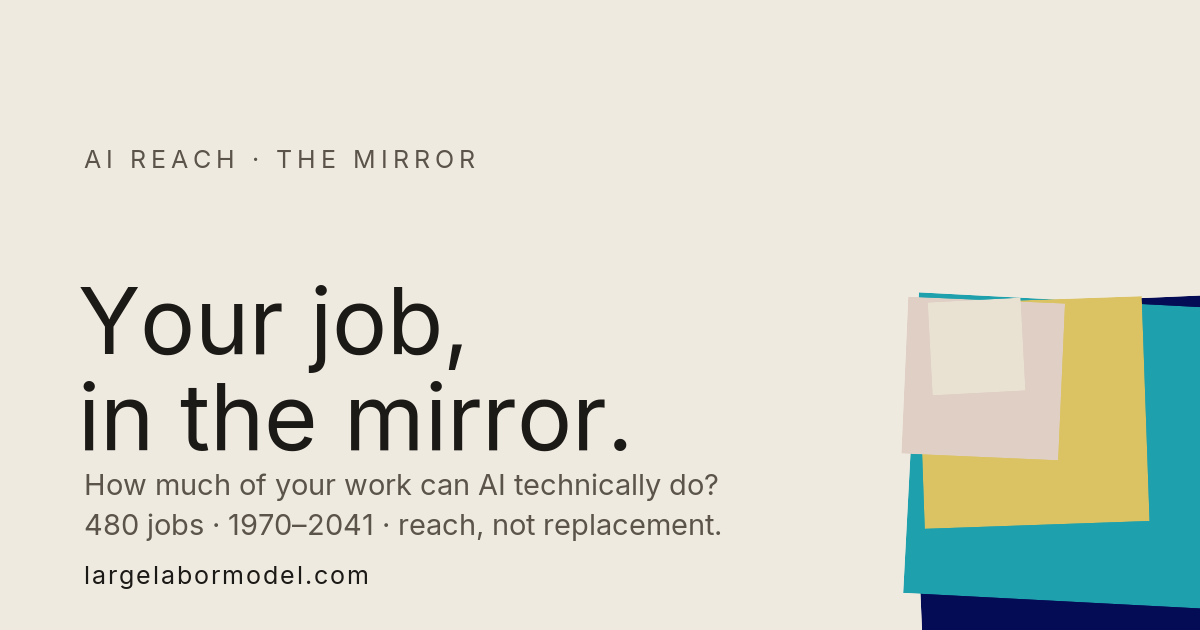
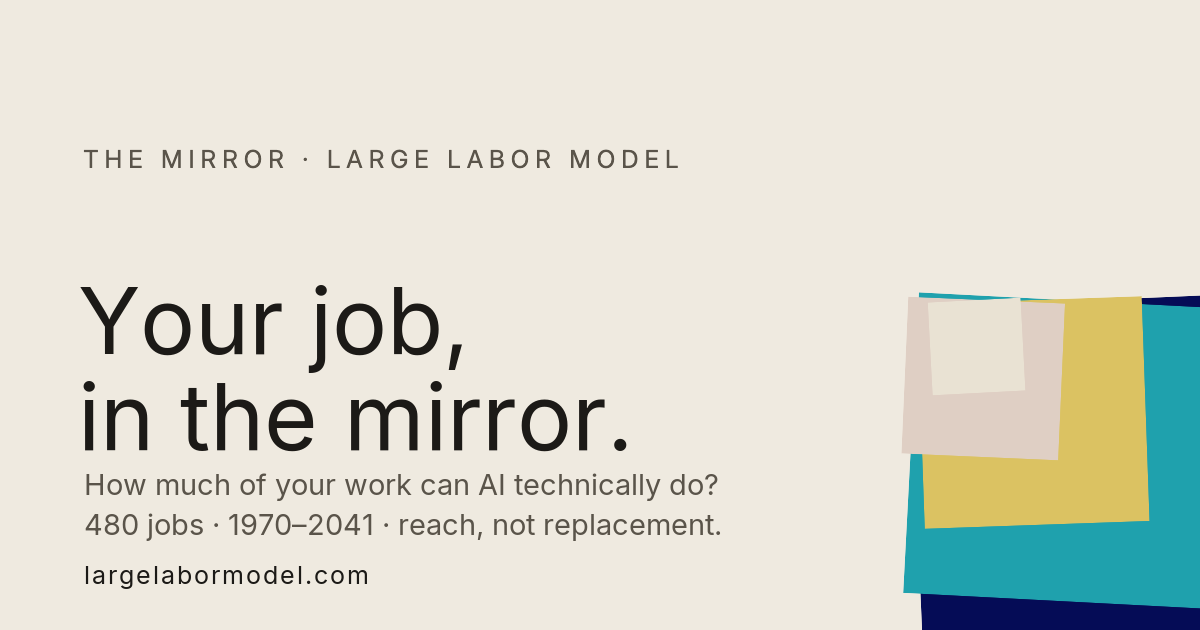
Independent review fixes: share images, 2025 provenance, bad-link focus, honest check
From the independent review of 0b81390 (GO with fixes), each reproduced first;
owner decided the open points.

- og-image.png was a capture of a pre-v5 model (57% avg, 3.4B, Land & Sea 48%)
  and had been every link preview of / and /about since v5. Replaced with a
  render of this candidate at 2026 (34%, 3.6B); alt text year 2041 -> 2026.
- mirror/og-mirror.png still said "AI REACH · THE MIRROR"; now "THE MIRROR ·
  LARGE LABOR MODEL", as on the per-job cards. Only the kicker strip changed
  (pixel diff bbox 83,149-678,169).
- Both image URLs versioned (?v=20260919) in the pages and the /mirror shim so
  cached previews refresh.
- "The 2025 shares ... come from the post-2011 regime" was false: 2025 rests on
  19 reporting countries with the agriculture tie on, as in 1991-2010.
  Replaced in methodology-full.html, v5_methodology.md, v5_changelog.md.
- Unresolved ?job= on desktop: cursor goes into the open search on
  mouse-and-keyboard devices, so arrow + enter picks a job. Behaviour otherwise
  unchanged; mobile untouched. The reviewer's "unselected" state was declined.
- check_release.py: the Mirror check said "Nurse only when no ?job= is given"
  while requiring the unresolved fallback. Relabelled; the page's own miss
  flag is now executed for eight cases. Three mutations fail it.

Correction to d12142f's message: against the pooled dry run the decade-point
drawing is worst 3.1 pts vs 6.6 (mean 0.75 vs 0.85), not 2.4 vs 6.3.
[…]

Changed region(s): [[0.0617, 0.2413, 0.5858, 0.2714]]

diff --git a/methodology-full.html b/methodology-full.html
@@ -574,7 +574,7 @@ pending = replaceability_2026 × (1 − already_absorbed(era))
     <li><strong>Editorial overrides pending.</strong> Two evidence-backed concerns (ISCO 5245 Service Station Staff; REGULATORY-barrier occupations with r41 ≥ 95) are documented but not applied to v5.0. v5.1 / post-launch.</li>
     <li><strong>Historical reconstructions are coarse.</strong> 1800–1869 relies on Bairoch/Maddison macro aggregates; 1870–1990 on GGDC 10-sector. Only 1991+ is occupation-level ILOSTAT. Pre-1991 territory totals are honest but not precise.</li>
     <li><strong>Low/high scenario bands are structural, not editorially reviewed.</strong> See Section 7 caveat.</li>
-    <li><strong>The workforce-share series has breaks.</strong> The annual 1991–2025 shares are built occupation-up from ILOSTAT modelled estimates and carry classification breaks — the largest at 2010→2011, where Land &amp; Sea drops 7.0 points and Maintaining &amp; Fixing gains 4.8 in a single year — followed by roughly ±2-point year-to-year noise. The 1950 cross-section, from a source with thinner country coverage, puts Land &amp; Sea at 25% between 54% (1940) and 48% (1960). Both are artefacts of data assembly, not events, and are queued for v6. The 2025 shares that weight the headline figures come from the post-2011 regime. <em>Added 2026-09-19: until that date the homepage held every territory at its 1990 share, which hid these breaks.</em></li>
+    <li><strong>The workforce-share series has breaks.</strong> The annual 1991–2025 shares are built occupation-up from ILOSTAT modelled estimates and carry classification breaks — the largest at 2010→2011, where Land &amp; Sea drops 7.0 points and Maintaining &amp; Fixing gains 4.8 in a single year — followed by roughly ±2-point year-to-year noise. The 1950 cross-section, from a source with thinner country coverage, puts Land &amp; Sea at 25% between 54% (1940) and 48% (1960). Both are artefacts of data assembly, not events, and are queued for v6. The 2025 shares that weight the headline figures rest on 19 reporting countries, with Land &amp; Sea tied to the ILO's world agriculture total, as in 1991–2010. <em>Added 2026-09-19: until that date the homepage held every territory at its 1990 share, which hid these breaks.</em></li>
     <li><strong>Historical backfill uses current task decompositions and current within-territory employment weights.</strong> Phase 12 produces honest historical capability values, then applies them against today's occupation task lists weighted by today's in-territory employment shares. This gives "what share of today's labor would have been technically replaceable at that year's capability" — not "what share of 1985's actual labor force was replaceable by 1985 technology." Reconstructing historical occupation composition at the 480-occupation granularity is deferred.</li>
     <li><strong>Pre-1970 has no territory replaceability series.</strong> Capability evidence pre-1970 is too thin to support per-territory numbers with the same discipline as 1970+. Pre-1970 shows labor composition via <code>historical_occupations</code> macro aggregates (land_sea / macro_industry / macro_services) but no territory-level replaceability scores.</li>
   </ol>

diff --git a/mirror/desktop.html b/mirror/desktop.html
@@ -11,14 +11,14 @@
 <meta property="og:title" content="The Mirror · Large Labor Model">
 <meta property="og:description" content="How much of your job can AI technically do? Look up any of 480 occupations — replaceability, not replacement.">
 <meta property="og:url" content="https://largelabormodel.com/mirror">
-<meta property="og:image" content="https://largelabormodel.com/mirror/og-mirror.png">
+<meta property="og:image" content="https://largelabormodel.com/mirror/og-mirror.png?v=20260919">
 <meta property="og:image:width" content="1200">
 <meta property="og:image:height" content="630">
 <meta property="og:image:alt" content="The Mirror — how much of your job AI can technically do, across 480 jobs from 1970 to 2041.">
 <meta name="twitter:card" content="summary_large_image">
 <meta name="twitter:title" content="The Mirror · Large Labor Model">
 <meta name="twitter:description" content="How much of your job can AI technically do? 480 jobs · replaceability, not replacement.">
-<meta name="twitter:image" content="https://largelabormodel.com/mirror/og-mirror.png">
+<meta name="twitter:image" content="https://largelabormodel.com/mirror/og-mirror.png?v=20260919">
 <meta name="twitter:image:alt" content="The Mirror — technical replaceability across 480 jobs.">
 <meta name="viewport" content="width=device-width, initial-scale=1" />
 <style>
@@ -874,7 +874,7 @@ let toastT;
 function showToast(m){toast.textContent=m;toast.classList.add('on');clearTimeout(toastT);toastT=setTimeout(()=>toast.classList.remove('on'),2400);}
 attachTypeahead(document.getElementById('jobEntry'),o=>{setFocal(o.isco,true);document.getElementById('jobEntry').value='';document.getElementById('jobEntry').blur();});
 /* a ?job= value we could not place: show it in the search with its suggestions + the request row, rather than a silent Nurse */
-if(_jobMiss){const je=document.getElementById('jobEntry');if(je){je.value=_want.trim().slice(0,80);je.dispatchEvent(new Event('input',{bubbles:true}));}}
+if(_jobMiss){const je=document.getElementById('jobEntry');if(je){je.value=_want.trim().slice(0,80);je.dispatchEvent(new Event('input',{bubbles:true}));if(matchMedia('(hover:hover) and (pointer:fine)').matches)je.focus({preventScroll:true});}}
 /* ===== SHARE · generated PNG card (parity with mobile) ===== */
 const SITE='https://largelabormodel.com';
 function shareURL(){return SITE+'/mirror?job='+FOCAL_ISCO;}   // deep-link back into The Mirror, this job

diff --git a/index.html b/index.html
@@ -13,17 +13,17 @@
 <meta property="og:title" content="Large Labor Model — When Will AI Reach Your Job?">
 <meta property="og:description" content="A visual model of when AI and robotics will reach every job on Earth. 3.6 billion workers across 13 territories of work, from 1800 to 2041.">
 <meta property="og:url" content="https://largelabormodel.com">
-<meta property="og:image" content="https://largelabormodel.com/og-image.png">
+<meta property="og:image" content="https://largelabormodel.com/og-image.png?v=20260919">
 <meta property="og:image:width" content="1200">
 <meta property="og:image:height" content="630">
-<meta property="og:image:alt" content="Large Labor Model map at 2041 — 13 colored territories of work with replaceability percentages and worker counts.">
+<meta property="og:image:alt" content="Large Labor Model map at 2026 — 13 colored territories of work with replaceability percentages and worker counts.">
 
 <!-- Twitter -->
 <meta name="twitter:card" content="summary_large_image">
 <meta name="twitter:title" content="Large Labor Model — When Will AI Reach Your Job?">
 <meta name="twitter:description" content="A visual model of when AI and robotics will reach every job on Earth. 3.6 billion workers across 13 territories of work, from 1800 to 2041.">
-<meta name="twitter:image" content="https://largelabormodel.com/og-image.png">
-<meta name="twitter:image:alt" content="Large Labor Model map at 2041 — 13 colored territories of work with replaceability percentages and worker counts.">
+<meta name="twitter:image" content="https://largelabormodel.com/og-image.png?v=20260919">
+<meta name="twitter:image:alt" content="Large Labor Model map at 2026 — 13 colored territories of work with replaceability percentages and worker counts.">
 <style>
 @font-face {
   font-family: 'Inter';

diff --git a/methodology.html b/methodology.html
@@ -13,17 +13,17 @@
 <meta property="og:title" content="About — Large Labor Model">
 <meta property="og:description" content="How the Large Labor Model measures AI replaceability across 3.6 billion workers — data sources, methodology, and editorial principles.">
 <meta property="og:url" content="https://largelabormodel.com/about">
-<meta property="og:image" content="https://largelabormodel.com/og-image.png">
+<meta property="og:image" content="https://largelabormodel.com/og-image.png?v=20260919">
 <meta property="og:image:width" content="1200">
 <meta property="og:image:height" content="630">
-<meta property="og:image:alt" content="Large Labor Model map at 2041 — 13 colored territories of work with replaceability percentages and worker counts.">
+<meta property="og:image:alt" content="Large Labor Model map at 2026 — 13 colored territories of work with replaceability percentages and worker counts.">
 
 <!-- Twitter -->
 <meta name="twitter:card" content="summary_large_image">
 <meta name="twitter:title" content="About — Large Labor Model">
 <meta name="twitter:description" content="How the Large Labor Model measures AI replaceability across 3.6 billion workers — data sources, methodology, and editorial principles.">
-<meta name="twitter:image" content="https://largelabormodel.com/og-image.png">
-<meta name="twitter:image:alt" content="Large Labor Model map at 2041 — 13 colored territories of work with replaceability percentages and worker counts.">
+<meta name="twitter:image" content="https://largelabormodel.com/og-image.png?v=20260919">
+<meta name="twitter:image:alt" content="Large Labor Model map at 2026 — 13 colored territories of work with replaceability percentages and worker counts.">
 <style>
 @font-face {
   font-family: 'Inter';

diff --git a/mirror/mobile.html b/mirror/mobile.html
@@ -11,14 +11,14 @@
 <meta property="og:title" content="The Mirror · Large Labor Model">
 <meta property="og:description" content="How much of your job can AI technically do? Look up any of 480 occupations — replaceability, not replacement.">
 <meta property="og:url" content="https://largelabormodel.com/mirror">
-<meta property="og:image" content="https://largelabormodel.com/mirror/og-mirror.png">
+<meta property="og:image" content="https://largelabormodel.com/mirror/og-mirror.png?v=20260919">
 <meta property="og:image:width" content="1200">
 <meta property="og:image:height" content="630">
 <meta property="og:image:alt" content="The Mirror — how much of your job AI can technically do, across 480 jobs from 1970 to 2041.">
 <meta name="twitter:card" content="summary_large_image">
 <meta name="twitter:title" content="The Mirror · Large Labor Model">
 <meta name="twitter:description" content="How much of your job can AI technically do? 480 jobs · replaceability, not replacement.">
-<meta name="twitter:image" content="https://largelabormodel.com/mirror/og-mirror.png">
+<meta name="twitter:image" content="https://largelabormodel.com/mirror/og-mirror.png?v=20260919">
 <meta name="twitter:image:alt" content="The Mirror — technical replaceability across 480 jobs.">
 <meta name="viewport" content="width=device-width, initial-scale=1, viewport-fit=cover" />
 <meta name="theme-color" content="#efeae0" />

diff --git a/api/mirror-og.js b/api/mirror-og.js
@@ -17,7 +17,7 @@ const { URL } = require('url');
 const manifest = require('../mirror/og/manifest.json');
 
 const SITE = 'https://largelabormodel.com';
-const GENERIC_OG_IMAGE = `${SITE}/mirror/og-mirror.png`;
+const GENERIC_OG_IMAGE = `${SITE}/mirror/og-mirror.png?v=20260919`;
 const GENERIC_OG_IMAGE_ALT = 'The Mirror — how much of your job AI can technically do, across 480 jobs from 1970 to 2041.';
 const SITE_DESCRIPTION = 'How much of your job can AI technically do? Look up any of 480 occupations — replaceability, not replacement.';
 

diff --git a/scripts/check_release.py b/scripts/check_release.py
@@ -301,8 +301,11 @@ node = shutil.which("node")
 for rel in ["mirror/desktop.html", "mirror/mobile.html"]:
     h = text(rel)
     fn = re.search(r"function resolveJobParam\(v\)\{.*?\n\}", h, re.S)
-    check(f"{rel}: resolver present, Nurse only when no ?job= is given", bool(fn) and "let FOCAL_ISCO=_resolved||'2221'" in h and "if(_jobMiss){" in h and "?_want:'2221'" not in h)
-    if not (fn and node):
+    miss = re.search(r"const _resolved=resolveJobParam\(_want\), _jobMiss=([^;]+);", h)
+    check(f"{rel}: resolver present; Nurse is the default focal job; an unresolved ?job= opens the search holding the typed text",
+          bool(fn) and bool(miss) and "let FOCAL_ISCO=_resolved||'2221'" in h and "?_want:'2221'" not in h
+          and "if(_jobMiss){" in h and "je.value=_want.trim().slice(0,80)" in h and "je.dispatchEvent(new Event('input'" in h)
+    if not (fn and miss and node):
         if not node: skipped.append(f"{rel} resolver execution (node not found)")
         continue
     nm = collections.Counter(fold(o["name"]) for o in bundle["occupations"])
@@ -314,13 +317,17 @@ for rel in ["mirror/desktop.html", "mirror/mobile.html"]:
     cases = {"2221": "2221", "nurse": "2221", "NURSE": "2221", "xdata_sci": "XDATA_SCI", uniq["name"]: uniq["isco"], amb: None, "zzzz-not-a-job": None, "": None}
     js = ("const DATA=JSON.parse(require('fs').readFileSync(process.argv[1],'utf8').replace(/^[^=]*=/,'').trim().replace(/;$/,''));\n"
           + fn.group(0) + "\nconst C=" + json.dumps(cases) + ";const bad=Object.entries(C).filter(([k,v])=>resolveJobParam(k)!==v).map(([k,v])=>k+'→'+resolveJobParam(k)+' (want '+v+')');"
+          # the page's own miss flag, executed: only a non-blank value that does not resolve counts as a miss
+          "const MISS=_want=>{const _resolved=resolveJobParam(_want);return " + miss.group(1) + ";};"
+          "const M=" + json.dumps([[None, False], ["2221", False], ["nurse", False], [uniq["name"], False], [amb, True], ["zzzz-not-a-job", True], ["", False], ["   ", False]]) + ";"
+          "M.filter(([w,m])=>MISS(w)!==m).forEach(([w,m])=>bad.push('miss('+JSON.stringify(w)+')='+MISS(w)+' (want '+m+')'));"
           "console.log(JSON.stringify(bad));")
     try:
         out = subprocess.run([node, "-e", js, str(ROOT / "mirror/mirror_data.js")], capture_output=True, text=True, timeout=60)
         bad = json.loads(out.stdout.strip() or json.dumps(["no output: " + out.stderr.strip()[:80]]))
     except Exception as e:
         bad = [f"{type(e).__name__}: {e}"]
-    check(f"{rel}: resolver executed — code, name, any-case, hyphenated name resolve; ambiguous alias and junk do not", not bad, f"{bad}")
+    check(f"{rel}: resolver executed — code, name, any-case, hyphenated name resolve; ambiguous alias and junk do not, and only those two count as a miss", not bad, f"{bad}")
 
 if node:
     try:

diff --git a/docs/v5_changelog.md b/docs/v5_changelog.md
@@ -310,7 +310,7 @@ An external audit checked the published documents against the dataset, the build
 
 - **Homepage drew 1990 workforce shares for every later year.** The loader's record-type filter predates v5, which stores 1991–2025 labor records as `derived_from_occupation`; none were admitted, so each territory held its 1990 share from 1991 to 2041 (Land & Sea at 43.0% in 2026 against 26.6% in the data; header average 30 rather than 34). Live since the April 19 release. The two `modelled` armed-forces components (1988–89) were also being read as whole-year totals, so the world workforce displayed 24M for those years and interpolated down towards it across 1981–1989. Both fixed; for 2026–2041 the page holds the 2025 shares constant, because v5 does not project workforce shares.
 - **Land & Sea workforce share, 1800 / 1830 / 1860.** Stored as 100.0 while Industry and Services carried their true shares (sum ≈ 121%). Normalised to the records' own worker counts: 79.1 / 77.4 / 76.1. In every other year the shares sum to 100 and agree with their worker counts — which is not the same as the series being smooth; see the next item.
-- **Known breaks in the workforce-share series, now visible.** With the homepage reading 1991–2025 for the first time, the annual series shows classification breaks — the largest at 2010→2011 (Land & Sea −7.0 points, about 202M workers; Maintaining & Fixing +4.8), with roughly ±2-point year-to-year noise afterwards — and the 1950 cross-section is an outlier (Land & Sea 25% between 54% and 48%). These are artefacts of data assembly, not events; they are disclosed in the methodology's limitations and queued for v6. The 2025 shares that weight the headline figures come from the post-2011 regime.
+- **Known breaks in the workforce-share series, now visible.** With the homepage reading 1991–2025 for the first time, the annual series shows classification breaks — the largest at 2010→2011 (Land & Sea −7.0 points, about 202M workers; Maintaining & Fixing +4.8), with roughly ±2-point year-to-year noise afterwards — and the 1950 cross-section is an outlier (Land & Sea 25% between 54% and 48%). These are artefacts of data assembly, not events; they are disclosed in the methodology's limitations and queued for v6. The 2025 shares that weight the headline figures rest on 19 reporting countries, with Land & Sea tied to the ILO's world agriculture total, as in 1991–2010.
 - **Replacement formula: four descriptions, one calculation.** All 2,400 stored displacement values (480 occupations × 5 checkpoints) reproduce within 0.1 from the Phase 6 parameters the build scripts load — barrier multipliers NONE 1.20, ECONOMIC 1.00, HUMAN_PREFERENCE 0.70, REGULATORY 0.50, HUMANOID_DEPENDENT 0.15, applied to the lag term only. `metadata.replacement_formula_v5` advertised Phase 11's proposed 0.562 / 0.405, which never reached the data because the later recompute read the Phase 6 file; the methodology page printed a third multiplier set and a different equation, and the Markdown a fourth variant. Metadata, HTML and Markdown now state the shipped calculation. The shipped values are canonical for v5. Whether to adopt the Phase 11 proposal is recorded as an open question for the v6 re-fit: it would change 161 occupations at 2041 by up to 4.8 points and move the mean from 24.2 to 23.6.
 - **Fit statistic restated.** "R² 0.85+" was attributed to the seven historical cases. The statistic belongs to the 28-occupation Anthropic Economic Index cross-section — observed task coverage, a usage proxy that includes augmentation, not job loss — and the archived fit table reproduces 0.61 (single slope), 0.56 (through the origin) and 0.78 (barrier-stratified), not 0.86. The earlier entry above that reports the jump "from 0.61 to 0.85+" should be read with this correction.
 - **Capability table.** The 1985 and 2025 rows on the methodology page matched an older trajectory; replaced with the canonical values (2025 became stale when it was anchored on August 15).
@@ -331,4 +331,5 @@ An external audit checked the published documents against the dataset, the build
 - **Essay:** following the owner's clarification that the dek describes a conceptual contrast between knowledge and physical work, the dek now says machines are moving toward mastery of knowledge work while much physical work still escapes them. The body text is unchanged. Source and generated editions were rebuilt.
 - **Deep-link edge cases:** overlong queries are no longer truncated into a different valid OG name. Choosing a result preserves unrelated query parameters and the fragment. The search popup now sits above the scroll hint.
 - **Citation revision:** `5.0-rev.20260919` distinguishes this correction from the original v5.0; the scientific model version remains 5.0. Dataset metadata carries the citation identifier, and the public derivatives were rebuilt from it.
+- **Share images:** the homepage link preview was a capture from before v5 (57% average, 3.4B workers). It now shows the 2026 view (34%, 3.6B) and its alt text names 2026. The generic Mirror card carries the current project name. Image URLs are versioned so cached previews refresh.
 - **Verification:** release checks now compare all CSV cells and all occupation-index fields, bundle task inputs and score fields, execute historical share-partition tests, and reconstruct the archived worksheet's R². They check release invariants, not scientific validity or every statement on the site.

diff --git a/docs/v5_methodology.md b/docs/v5_methodology.md
@@ -247,7 +247,7 @@ This is a structured estimate, not a forecast. The honest statement of what the 
 12. **Historical backfill uses current task decompositions and current within-territory employment weights.** Phase 12 produces honest historical capability values; it applies them against today's occupation task lists, weighted by today's in-territory employment shares. This gives "what share of today's labor would have been technically replaceable at that year's capability" — not "what share of 1985's actual labor force was technically replaceable by 1985 technology." Reconstructing historical occupation-level task compositions and employment weights at the 480-occupation granularity would require a separate research project (ILOSTAT's occupation series begins only in 1991). This is a known editorial caveat for the historical series, documented at `metadata.phase12_historical_backfill`.
 
 13. **Pre-1970 has no territory replaceability series.** Capability evidence pre-1970 is too thin (industrial robot density pre-1993 is estimated, digital-computing business deployment is mostly-qualitative) to support per-territory numbers with the same discipline as 1970+. Pre-1970 shows labor composition via `historical_occupations` macro aggregates (land_sea / macro_industry / macro_services) but no territory-level replaceability scores. The UI renders historical composition in the period.
-14. **The workforce-share series has breaks.** The annual 1991–2025 shares are built occupation-up from ILOSTAT modelled estimates and carry classification breaks — the largest at 2010→2011, where Land & Sea drops 7.0 points and Maintaining & Fixing gains 4.8 in a single year — followed by roughly ±2-point year-to-year noise. The 1950 cross-section, from a source with thinner country coverage, puts Land & Sea at 25% between 54% (1940) and 48% (1960). Both are artefacts of data assembly, not events, and are queued for v6. The 2025 shares that weight the headline figures come from the post-2011 regime. *Added 2026-09-19: until that date the homepage held every territory at its 1990 share, which hid these breaks.*
+14. **The workforce-share series has breaks.** The annual 1991–2025 shares are built occupation-up from ILOSTAT modelled estimates and carry classification breaks — the largest at 2010→2011, where Land & Sea drops 7.0 points and Maintaining & Fixing gains 4.8 in a single year — followed by roughly ±2-point year-to-year noise. The 1950 cross-section, from a source with thinner country coverage, puts Land & Sea at 25% between 54% (1940) and 48% (1960). Both are artefacts of data assembly, not events, and are queued for v6. The 2025 shares that weight the headline figures rest on 19 reporting countries, with Land & Sea tied to the ILO's world agriculture total, as in 1991–2010. *Added 2026-09-19: until that date the homepage held every territory at its 1990 share, which hid these breaks.*
 
 ---
 
